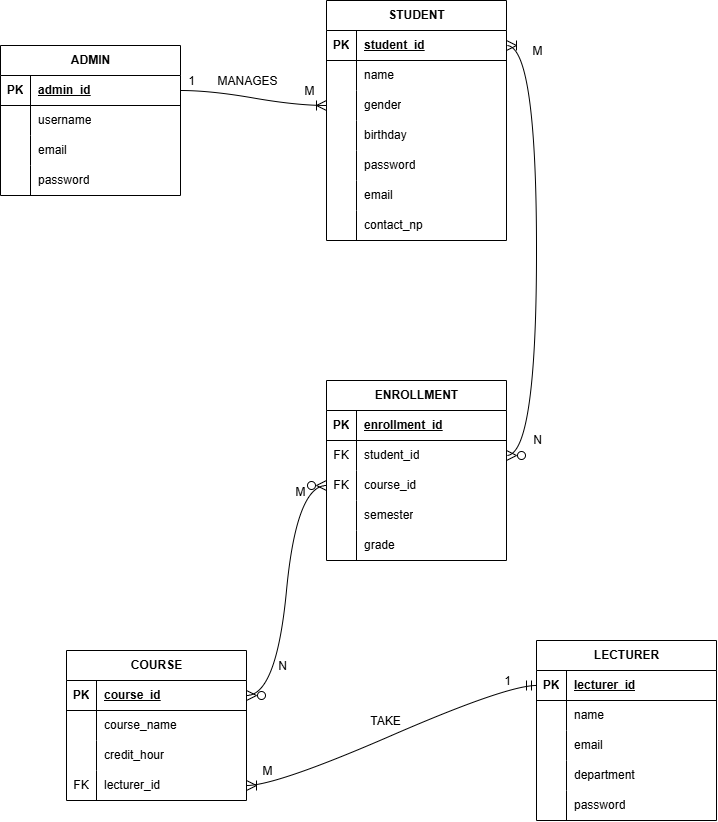
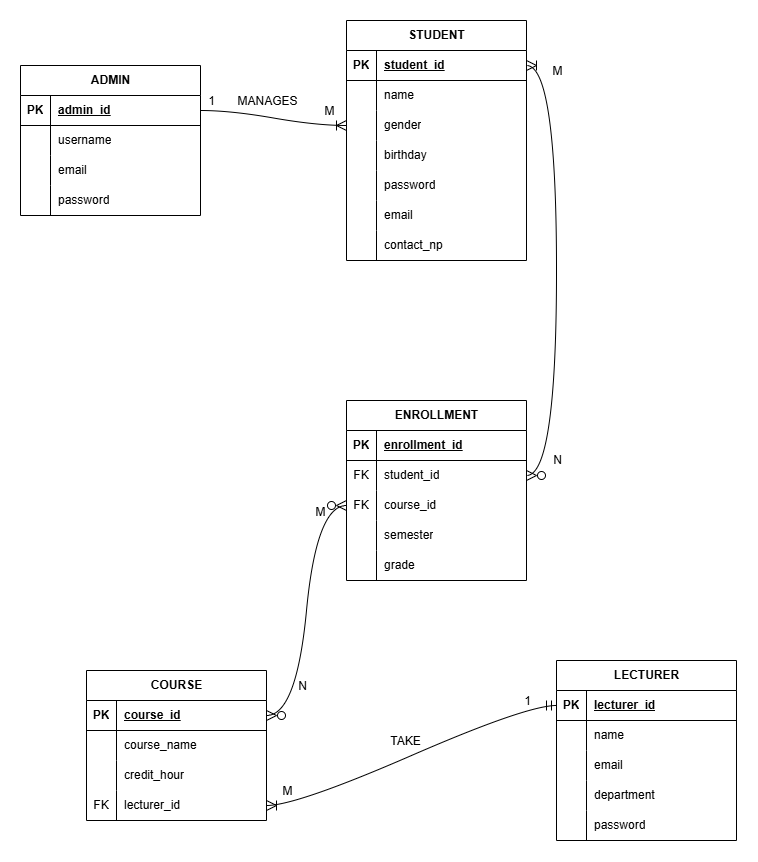
docs: summarise the report in the readme

diff --git a/README.md b/README.md
@@ -39,7 +39,14 @@ My Workshop I project. A console program for the faculty to keep student, lectur
 | Programme | Bachelor of Computer Science (Artificial Intelligence) |
 | Faculty | Faculty of Artificial Intelligence and Cyber Security, UTeM |
 | Semester | Year 2 Semester 1, 2025/2026 |
-| Documents | [Report](docs/Workshop%201%20Report.pdf) · [Analysis and Design](docs/Analysis%20and%20Design.pdf) · [Flowchart](docs/Flowchart.pdf) |
+
+## Problem and Objectives
+
+The faculty kept student records by hand in separate files and folders. Records were duplicated and hard to find, enrollment was slow, lecturers worked out grades and GPA with a calculator, and there were no ready reports on how a course performed.
+
+1. Three modules with full CRUD: Admin (users and courses), Lecturer (grading and enrollment) and Student (profile and transcript).
+2. Automatic calculation of total marks, grades, GPA and CGPA.
+3. Academic transcripts and course performance reports with a bar chart.
 
 ## Features
 
@@ -74,11 +81,13 @@ CGPA = sum of (GPA × credit hours) / sum of credit hours. A student passes a co
 
 <table>
   <tr>
-    <td width="50%"><img src="docs/images/data-model.png" alt="ERD"></td>
-    <td width="50%"><img src="docs/images/flowchart.jpg" alt="Flowchart"></td>
+    <td width="33%"><img src="docs/images/data-model.png" alt="ERD"></td>
+    <td width="33%"><img src="docs/images/normalization.png" alt="Normalization"></td>
+    <td width="33%"><img src="docs/images/flowchart.jpg" alt="Flowchart"></td>
   </tr>
   <tr>
     <td align="center">ERD</td>
+    <td align="center">Normalization</td>
     <td align="center">Flowchart</td>
   </tr>
 </table>
@@ -120,5 +129,5 @@ StudentManagementSystemCppVersion/
 ├── database/
 │   ├── schema.sql
 │   └── sample_data.sql
-└── docs/                   # report, design and screenshots
+└── docs/                   # design and screenshots
 ```
